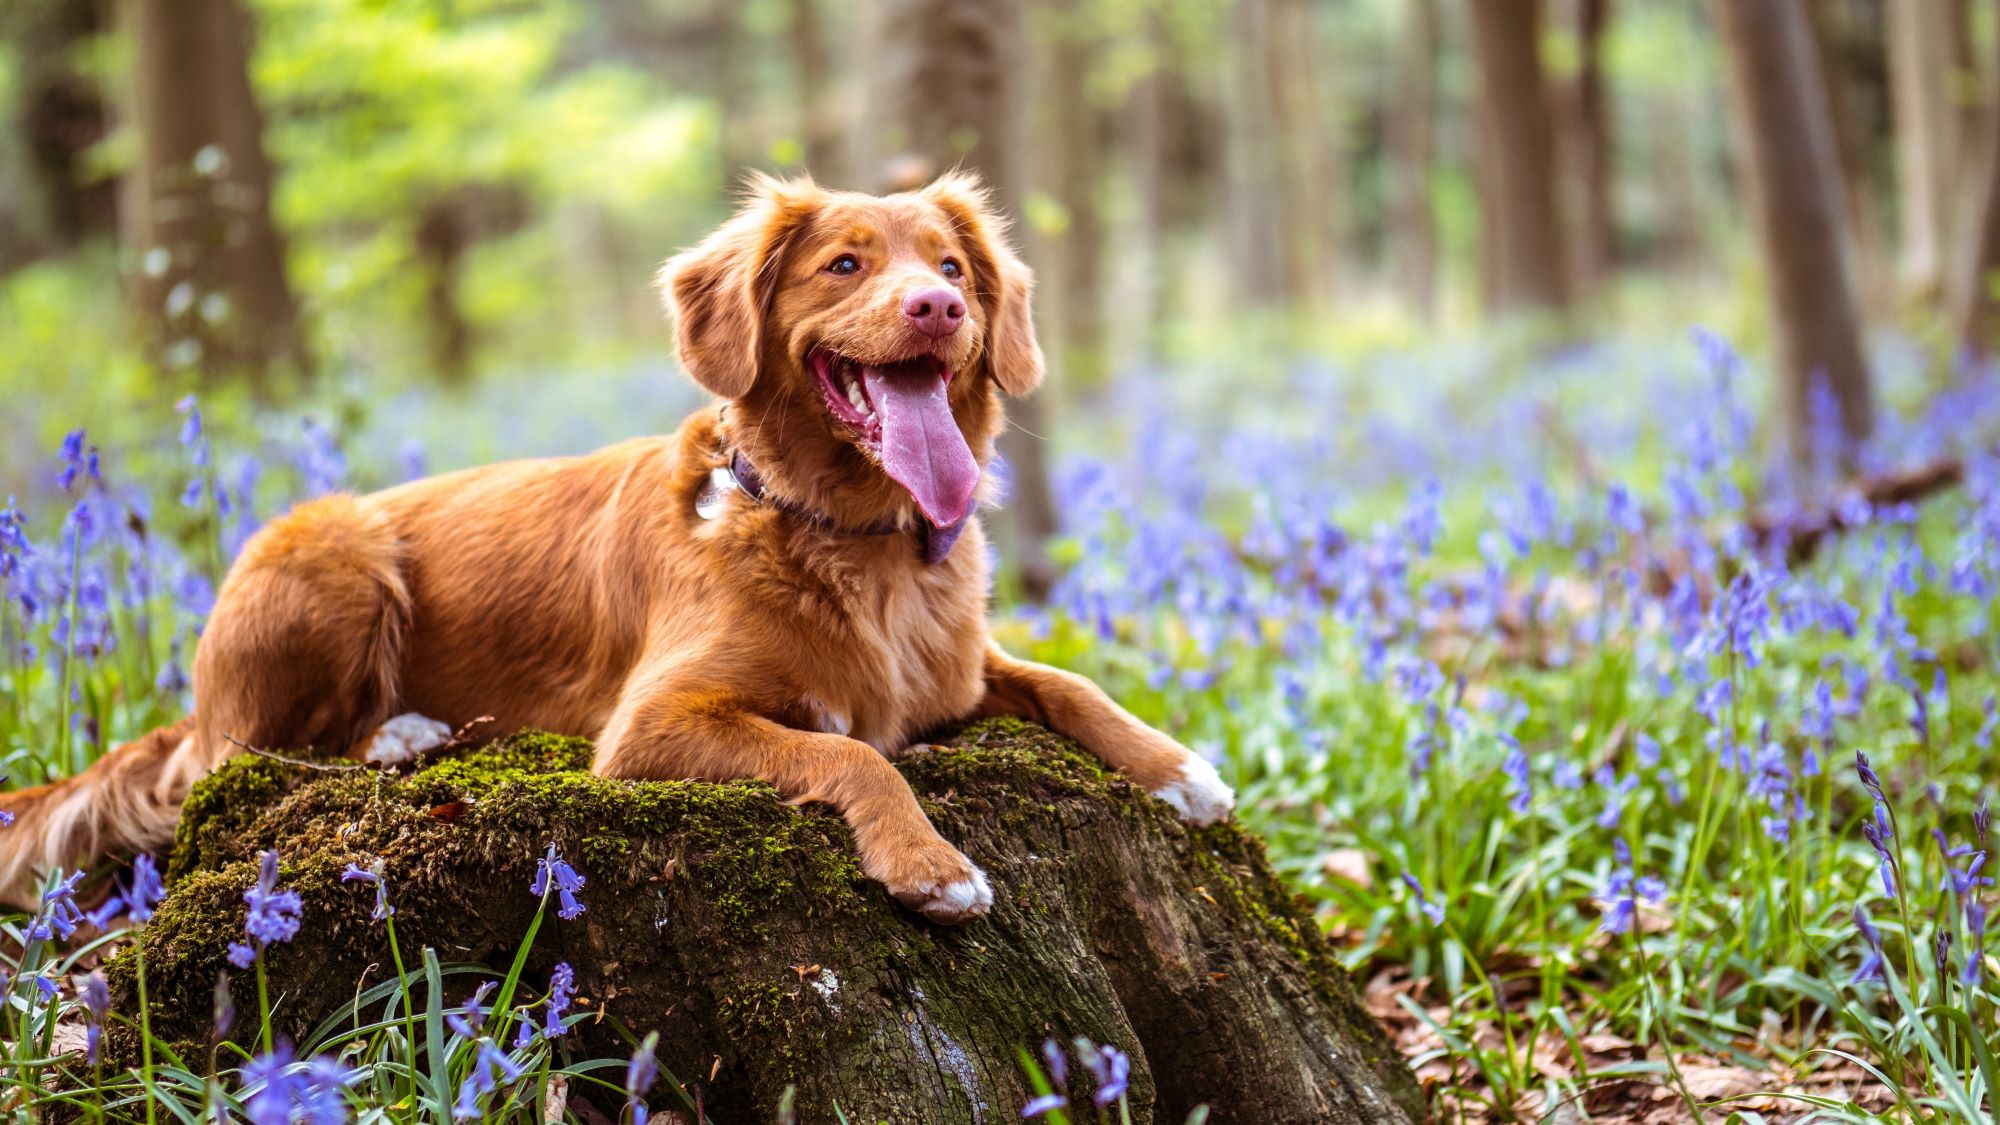
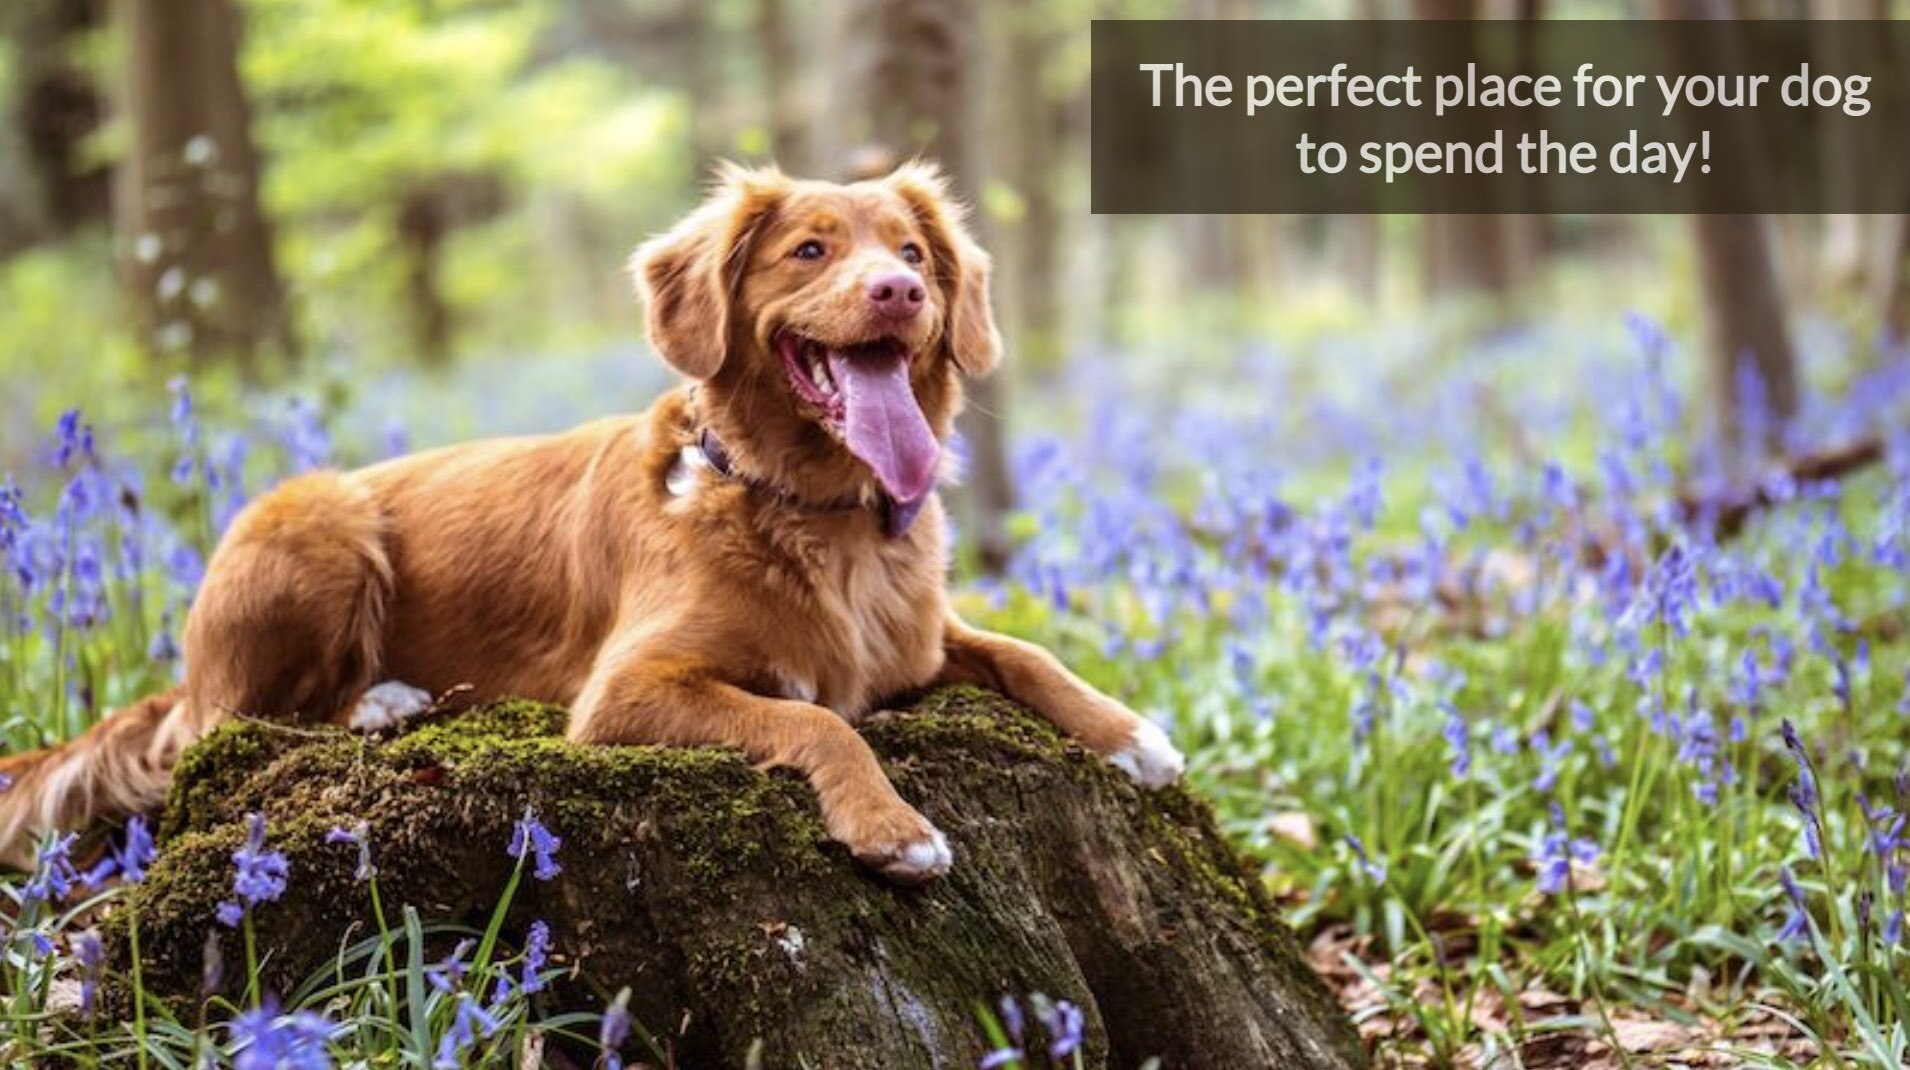
Rename transparent to col, removed shadown border

diff --git a/assets/css/style.css b/assets/css/style.css
@@ -11,13 +11,11 @@ html,
 body {
     font-weight: 300;
     font-family: Lato, sans-serif;
-
 }
 
 header {
     display: flex;
     justify-content: space-between;
-
 }
 
 header a {
@@ -36,7 +34,6 @@ header a {
     list-style-type: none;
     padding: 0 30px;
     margin: 25px 10px;
-
 }
 
 #menu a:hover {
@@ -50,7 +47,6 @@ header a {
     display: inline-block;
     width: 100%;
     color: darkslategray;
-
 }
 
 a {
@@ -60,15 +56,12 @@ a {
 
 a:hover {
     text-decoration: underline;
-
 }
 
 /* Hero Image*/
-
 #hero {
-
     width: 100%;
-    height: 40vw;
+    height: auto;
     display: flex;
     flex-direction: row;
     border-top: 5px solid darkslategray;
@@ -76,37 +69,40 @@ a:hover {
 }
 
 #hero-image {
-    display: flex;
-    justify-content: flex-end;
+    display: inline-block;
     width: 100%;
-    background: url('../images/hero-image.jpg') no-repeat center center;
+    /* background: url('../images/hero-image.jpg') no-repeat center center; */
     background-size: cover;
+}
+
+#hero-image img {
+    width: 100%;
 }
 
 #intro {
     background-color: #2D2410;
     opacity: 0.7;
     width: 40%;
-    height: 20%;
-    margin-right: 15px;
-    margin-top: 150px;
+    height: auto;
     font-size: 28px;
     font-family: Lato, sans-serif;
     color: whitesmoke;
     padding: 15px;
     text-align: center;
+    position: absolute;
+    top: 6rem;
+    right: 0;
 }
 
 /* Container */
-
-.transparent {
+.col {
     width: 50%;
 }
 
 .container {
     display: flex;
     flex-direction: row;
-    height: 20vw;
+    height: auto;
     justify-content: space-between;
     align-items: center;
 }
@@ -115,31 +111,30 @@ a:hover {
     background-color: #8A9A40;
     color: white;
     padding: 5px;
+    min-height: 20rem;
 }
 
-.transparent h2 {
+.col h2 {
     color: blanchedalmond;
     font-weight: 600;
     line-height: 50px;
 }
 
-.transparent p {
+.col p {
     text-indent: 10px;
     line-height: 25px;
-
 }
 
 #depoiment {
     background-color: darkslategray;
     color: white;
     padding: 5px;
-
 }
 
 .circle-container {
     width: 300px;
     height: 300px;
-    padding: 30px;
+    padding: 2rem;
     margin: 0 auto;
     border-radius: 50%;
 }
@@ -149,8 +144,6 @@ a:hover {
     background-size: 100%;
     height: 100%;
     border-radius: 50%;
-    box-shadow: 0px 0px 0px 50px rgba(0, 0, 0, 0.3);
-
 }
 
 #brief-image {
@@ -158,7 +151,6 @@ a:hover {
     background-size: 150%;
     height: 100%;
     border-radius: 50%;
-    box-shadow: 0px 0px 0px 50px rgba(0, 0, 0, 0.3);
 }
 
 #description {
@@ -171,7 +163,6 @@ a:hover {
 }
 
 footer {
-
     padding-top: 1vw;
     height: fit-content;
     background-color: #A66A43;
@@ -196,7 +187,6 @@ footer {
     padding: 1vw;
     font-size: 30px;
     color: whitesmoke;
-
 }
 
 #social-media a {

diff --git a/index.html b/index.html
@@ -13,12 +13,10 @@
 </head>
 
 <body>
-
     <header>
         <h1>
             <a href="index.html" id="logo">FurB</a>
         </h1>
-
         <nav>
             <ul id="menu">
                 <li><a href="index.html">Home</a></li>
@@ -26,23 +24,19 @@
                 <li><a href="contact">Contact Us</a></li>
             </ul>
         </nav>
-
     </header>
-
     <section id="hero">
         <div id="hero-image">
-            <h2 id="intro">The perfect place for your dog to spend the day!</h2>
-            <div>
-
+            <img src="assets/images/hero-image.jpg" alt="dog looking happy">
+        </div>
     </section>
-
     <section class="container" id="about">
-        <div class="transparent">
+        <div class="col">
             <div class="circle-container">
                 <div id="container-image"></div>
             </div>
         </div>
-        <div class="transparent">
+        <div class="col">
             <div id="description">
                 <h2>Who we are?</h2>
                 <p>
@@ -53,43 +47,36 @@
                 </p>
             </div>
         </div>
-
     </section>
-
     <section class="container" id="depoiment">
-        <div class="transparent">
+        <div class="col">
             <div id="description">
                 <h2>Clients Review</h2>
                 <div class="container-review">
-                    <p class="" client-review>
+                    <p class="client-review">
                         "The best place for your dog!"
                         <span class="name">Ivan</span>
                     </p>
-
                 </div>
                 <div class="container-review">
-                    <p class="" client-review>
+                    <p class="client-review">
                         "My dog's behavior improve a lot with the dog trainer! "
                         <span class="name">Maria</span>
                     </p>
-
                 </div>
                 <div class="container-review">
                     <p class="client-review">
                         "Mika comes home happier every time she visited there."</p>
                     <span class="name">John</span>
                 </div>
-
-
             </div>
         </div>
-        <div class="transparent">
+        <div class="col">
             <div class="circle-container">
                 <div id="brief-image"></div>
             </div>
         </div>
     </section>
-
     <footer>
         <ul id="social-media">
             <li>
@@ -111,10 +98,8 @@
                 </a>
             </li>
         </ul>
-
         <script src="https://kit.fontawesome.com/3a55a6fc9b.js" crossorigin="anonymous"></script>
     </footer>
-
 </body>
 
 </html>
